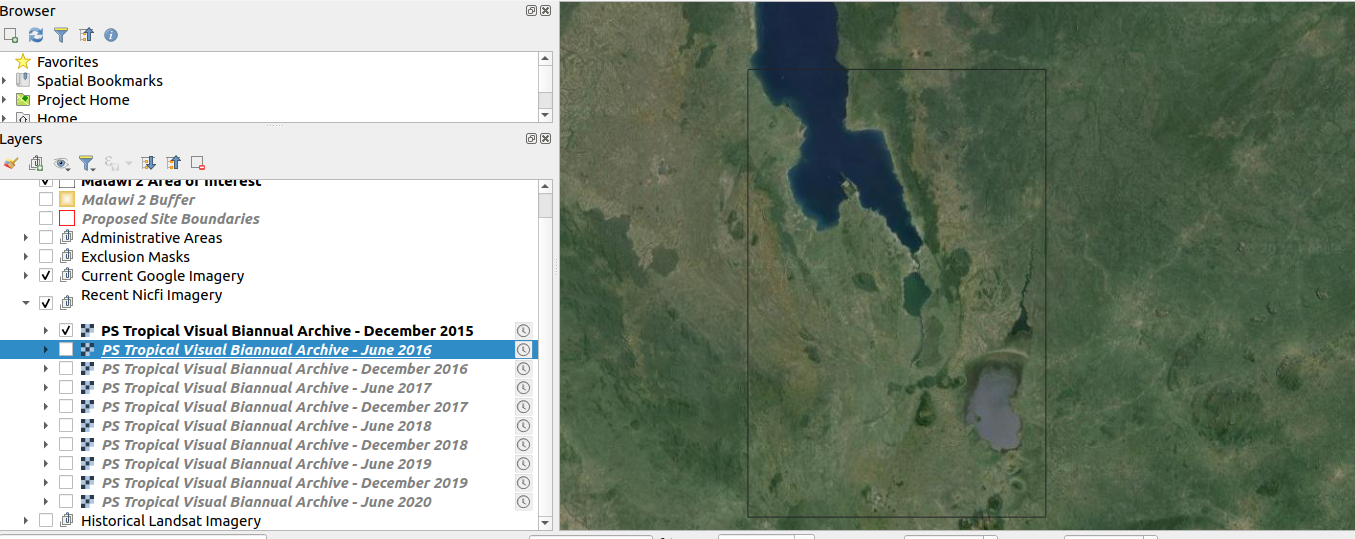
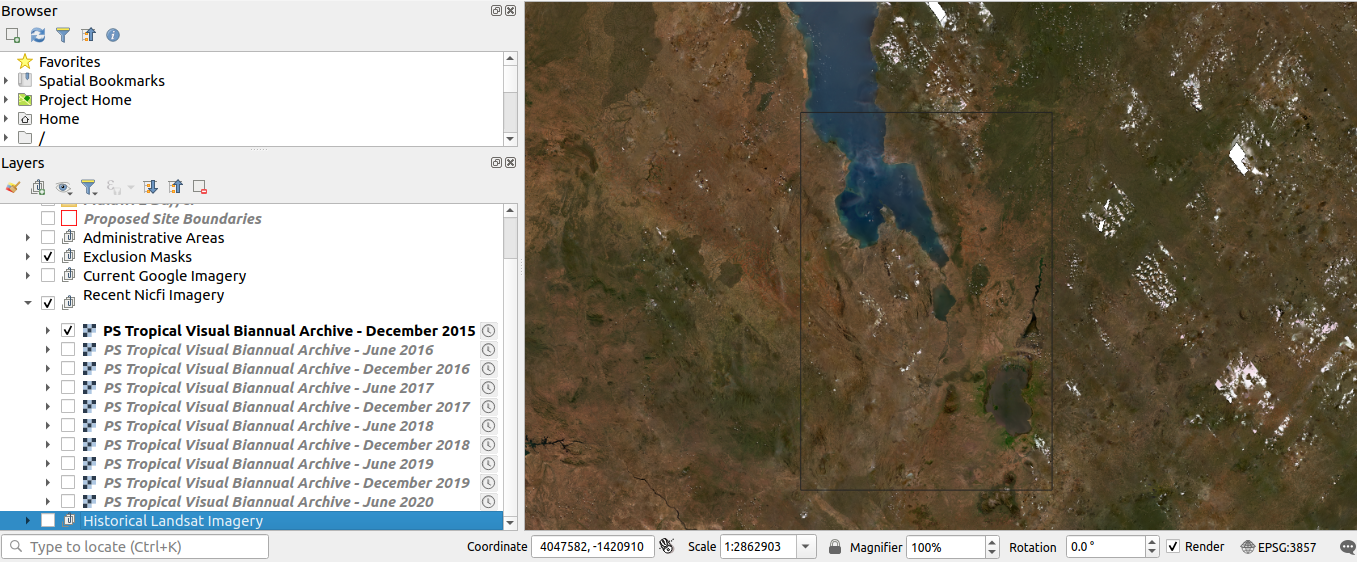
Update images

diff --git a/docs/src/user/manual/layer-list.md b/docs/src/user/manual/layer-list.md
@@ -60,25 +60,33 @@ There are four exclusion masks available for the user. The user can use these ex
 **Malawi 2 Soil Carbon Exclusion Mask**
     ![Soil Carbon](./img/layer-list-13.png)
 
+> Additional Notes on Viewing Different Imagery Layers:
+To effectively view the different imagery layers (Google Imagery, NICFI, and Landsat), you need to toggle the visibility of these layers.
+
 6. **Current Google Imagery:** Displays the most recent Google imagery. Check the relevant checkbox to view `Current Google imagery`.
 
 ![Google Imagery](./img/layer-list-14.png)
 
 7. **Recent NICFI Imagery:**
 
+- **Turn Off Google Imagery/Historical Landsat Imagery to View NICFI Imagery:** In the Layers panel, locate the Google Imagery/Historical Landsat Imagery layer. Click the checkbox next to the Google Imagery/Historical Landsat Imagery layer to turn it off. This will allow the NICFI imagery to be visible.
+
 ![NICFI Imagery](./img/layer-list-15.png)
 
-Through Norway’s International Climate & Forests Initiative (NICFI), users can now access Planet’s high-resolution, analysis-ready mosaics of the world’s tropics in order to help reduce and reverse the loss of tropical forests, combat climate change, conserve biodiversity, and facilitate sustainable development for non commercial uses.
+Through Norway’s International Climate & Forests Initiative (NICFI), users can now access Planet’s high-resolution, analysis-ready mosaics of the world’s tropics in order to help reduce and reverse the loss of tropical forests, combat climate change, conserve biodiversity, and facilitate sustainable development for non-commercial uses.
 
-To use the NICFI imagery the user must login to the Planet_Explorer plugin.
+To use the NICFI imagery the user must log in to the Planet_Explorer plugin.
 
-For detailed documentation on how to login click [here](./login.md)
+For detailed documentation on how to log in click [here](./login.md)
 
 Displays recent NICFI imagery. Check the relevant checkbox to view recent NICFI imagery.
 
 ![NICFI Imagery](./img/layer-list-16.png)
+![NICFI Imagery](./img/layer-list-18.png)
 
 8. **Historical Landsat Imagery:** Displays historical Landsat imagery. Check the relevant checkbox to view historical Landsat imagery. The user can use the historical imagery to compare the current and historical imagery differences.
+
+- **Turn Off Google Imagery/NICFI Imagery to View Landsat Imagery:** In the Layers panel, locate the Google Imagery/NICFI imagery layer. Click the checkbox next to the Google Imagery/NICFI imagery layer to turn it off. This will reveal the Landsat imagery layer below.
 
 ![Historical Landsat Imagery](./img/layer-list-17.png)
 
